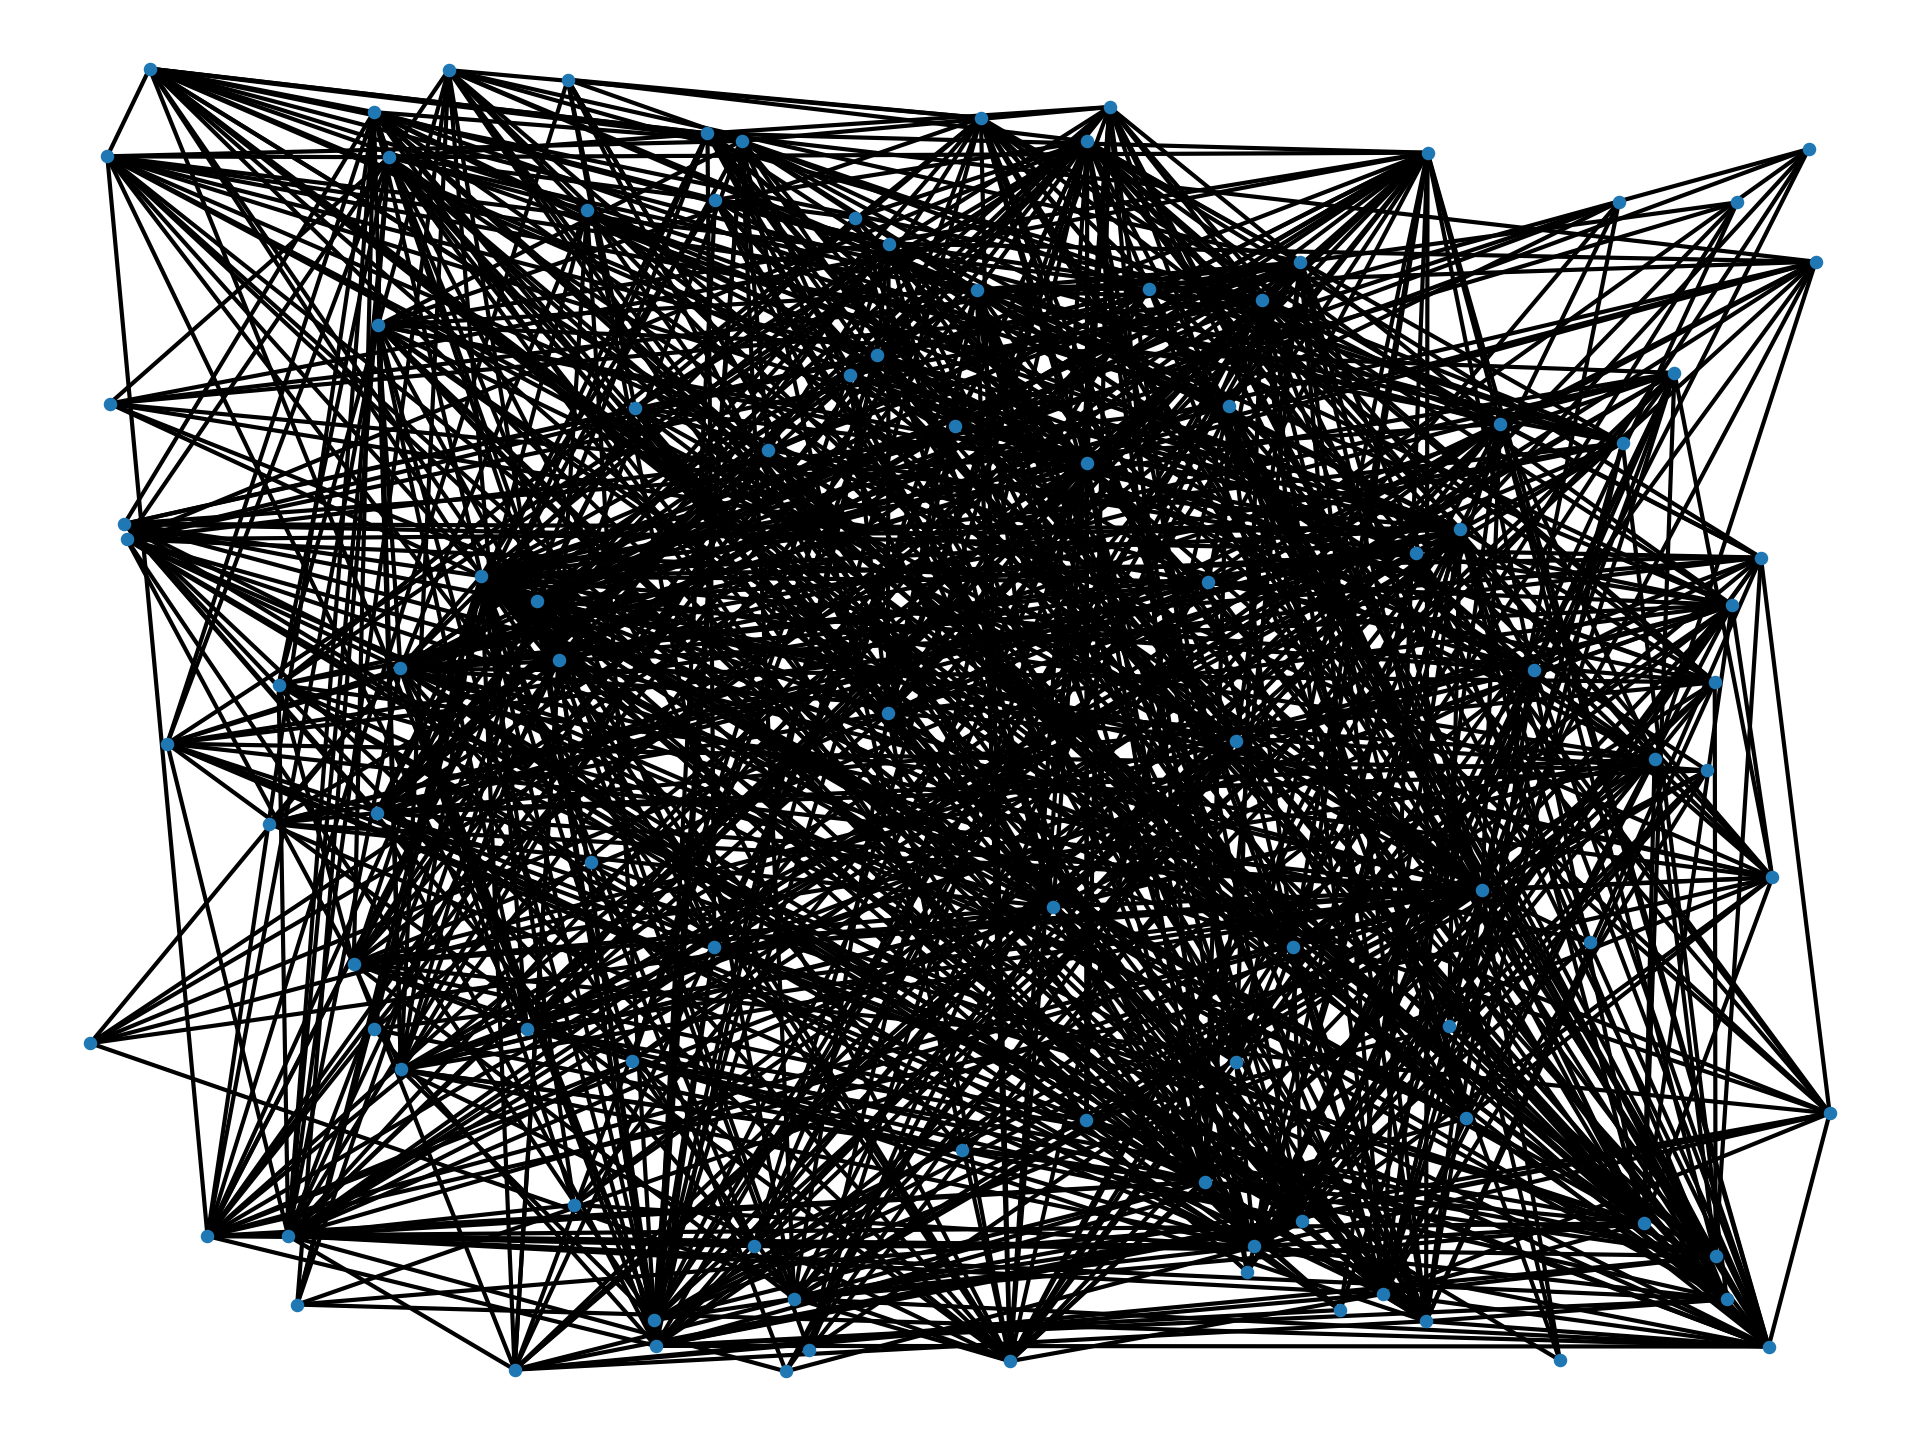
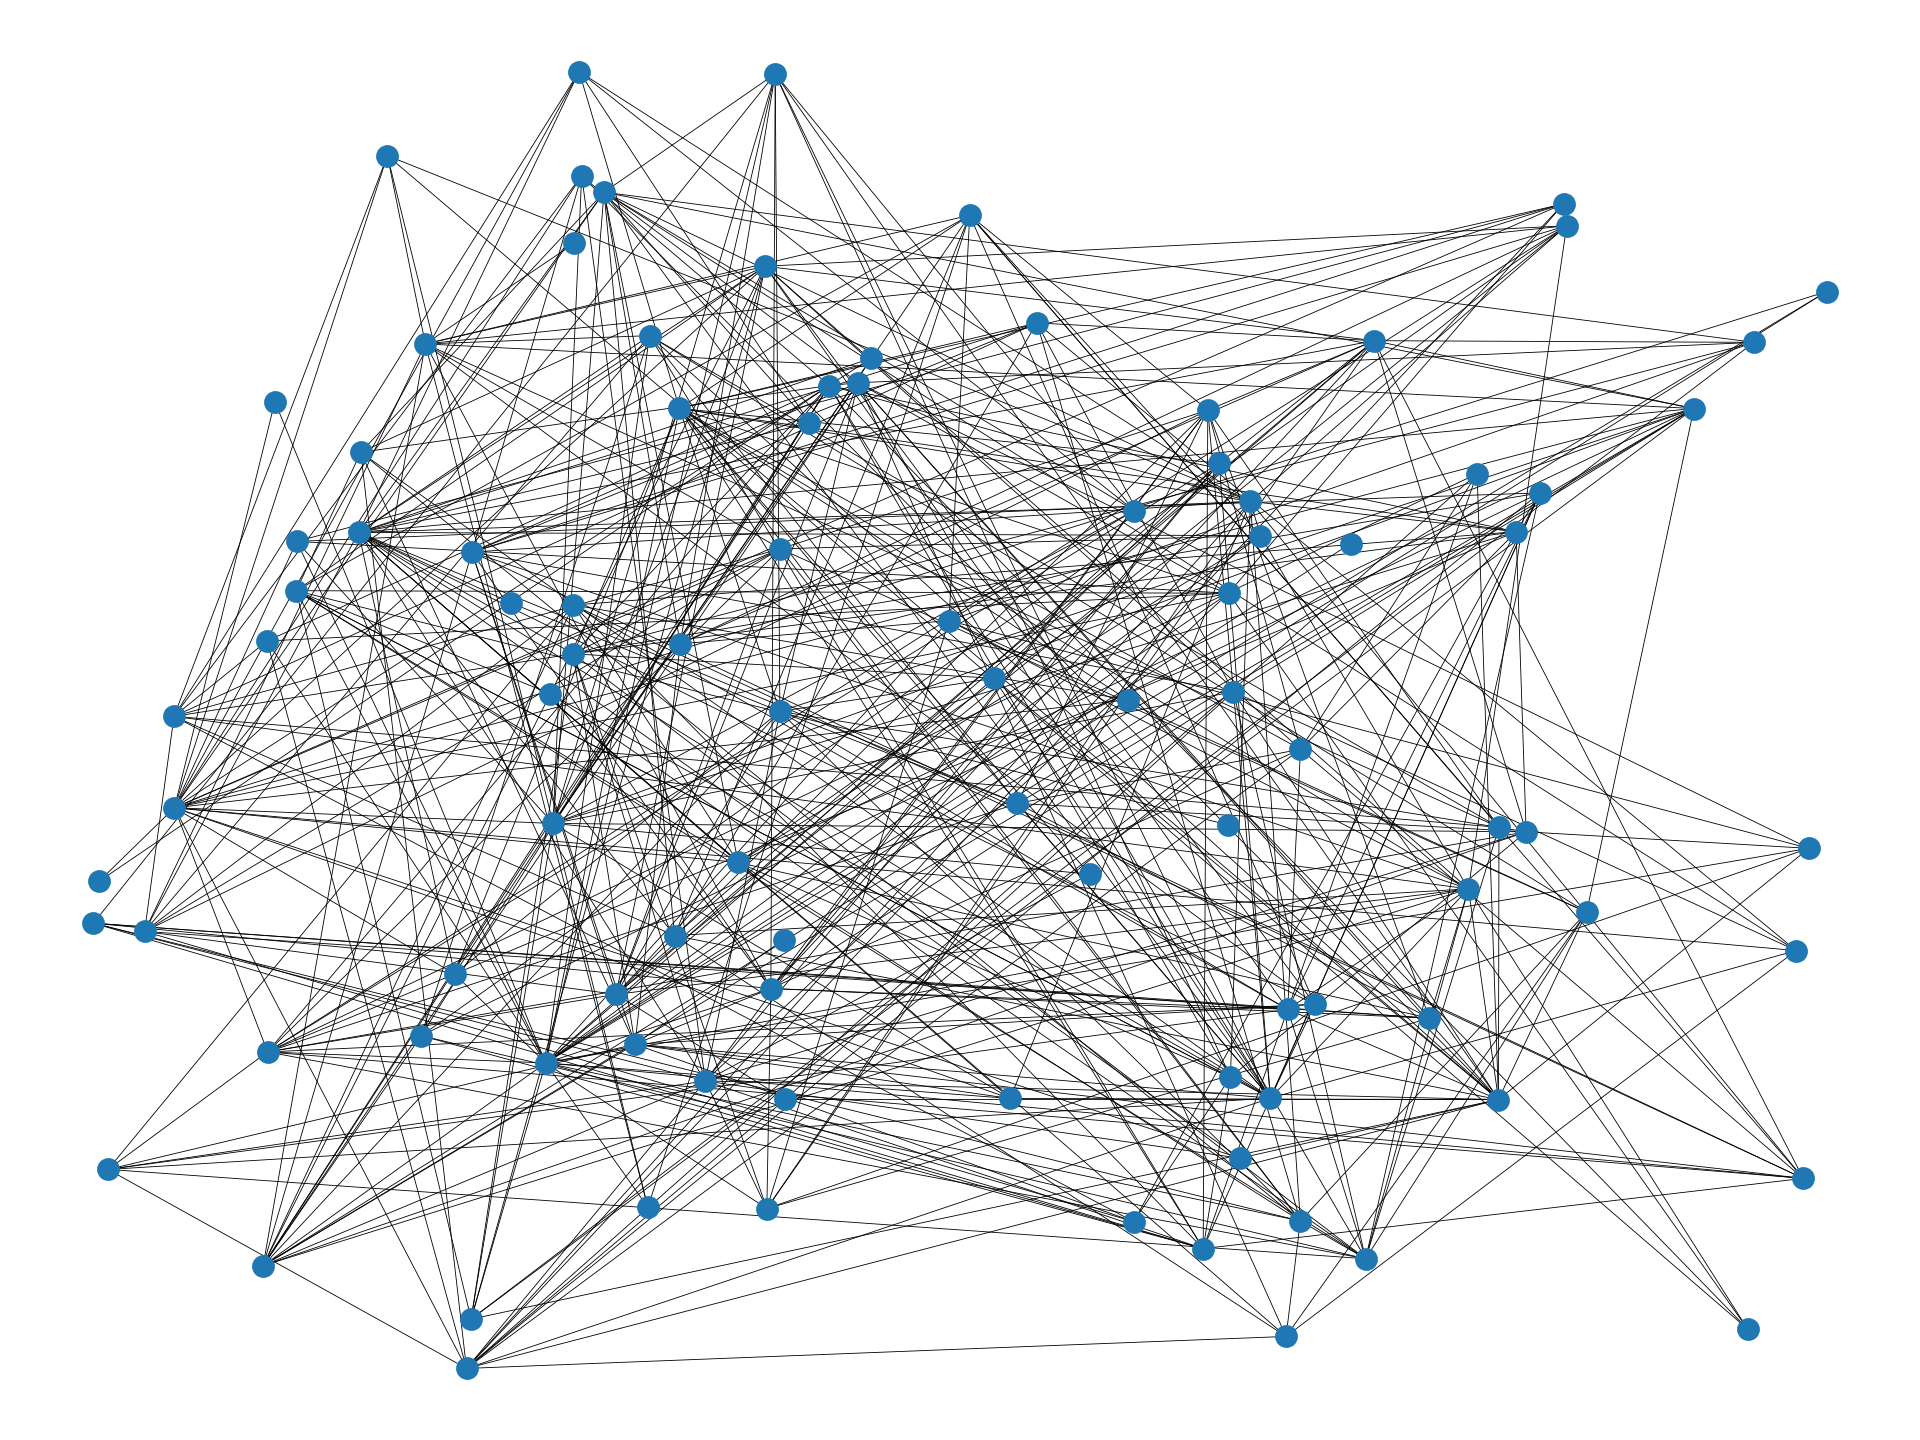
eval

diff --git a/create_batch.py b/create_batch.py
@@ -646,7 +646,7 @@ class Corpus:
         log = open(args.output_folder + 'relation_eval.txt', 'w+')
         y_true = self.test_indices[:, 1]
         y_predict = []
-        if not os.path.exists(args.output_folder):
+        if not os.path.exists(args.output_folder + 'output_scores/'):
             os.makedirs(args.output_folder + 'output_scores/')
 
         for iters in range(1):
@@ -702,19 +702,18 @@ class Corpus:
                 batch_values[:, -2] = scores.cpu().detach().numpy().reshape(1, -1)
                 batch_values[:, -1] = [1] + [0] * (new_x_batch.shape[0] - 1) # give label
                 dataset.append(batch_values)
-                softmax_scores = (scores).transpose(0, 1).cpu().detach().numpy()
+                # softmax_scores = (scores).transpose(0, 1).cpu().detach().numpy()
                 # TODO: calculate prob based on score and assign score to those valid triples in last_index
                 # softmax_scores = normalize(softmax_scores)
-                softmax_scores = softmax(softmax_scores)
-                if len(new_x_batch) < 30:
-                    for ele in last_index:
-                        if ele != batch_indices[i][1]:
-                            softmax_scores = np.insert(
-                                softmax_scores, ele, np.mean(softmax_scores[0][1:]), axis=1)
-                y_predict.append(softmax_scores)
+                #softmax_scores = softmax(softmax_scores)
+                #if len(new_x_batch) < 30:
+                #    for ele in last_index:
+                #        if ele != batch_indices[i][1]:
+                #            softmax_scores = np.insert(
+                #                softmax_scores, ele, np.mean(softmax_scores[0][1:]), axis=1)
+                #y_predict.append(softmax_scores)
 
-                sorted_scores, sorted_indices = torch.sort(
-                    scores.view(-1), dim=-1, descending=True)
+                sorted_scores, sorted_indices = torch.sort(scores.view(-1), dim=-1, descending=True)
                 # Just search for zeroth index in the sorted scores, we appended valid triple at top
                 ranks.append(
                     np.where(sorted_indices.cpu().detach().numpy() == 0)[0][0] + 1)
@@ -780,8 +779,8 @@ class Corpus:
             sum(average_mean_ranks) / len(average_mean_ranks)), file=log)
         print("Mean Reciprocal Rank {}".format(
             sum(average_mean_recip_ranks) / len(average_mean_recip_ranks)), file=log)
-
-        y_predict = np.vstack(y_predict)
+        '''
+        #y_predict = np.vstack(y_predict)
         y_true = label_binarize(y_true, classes=unique_relations)
         drop_idx = np.where(np.sum(y_true, axis=0) == 0)
         y_true = np.delete(y_true, drop_idx, axis=1)
@@ -792,3 +791,4 @@ class Corpus:
         print('#' * 9 + ' Link Prediction Performance ' + '#' * 9, file=log)
         print(f'AUC-ROC: {auc_roc:.3f}, AUC-PR: {auc_pr:.3f}', file=log)
         print('#' * 50, file=log)
+        '''

diff --git a/inferences/create_drugbank_dataset.py b/inferences/create_drugbank_dataset.py
@@ -2,29 +2,34 @@ from lxml import etree
 import time
 # read data
 
-read_start = time.time()
-PREFIX = '{http://www.drugbank.ca}'
-file_name = './data/drug_bank_full_database.xml'
-with open(file_name, 'r') as f:
-    tree = etree.parse(f)
-print(f'Parse takes {time.time() - read_start}')
+def main():
+    read_start = time.time()
+    PREFIX = '{http://www.drugbank.ca}'
+    file_name = './data/drug_bank_full_database.xml'
+    with open(file_name, 'r') as f:
+        tree = etree.parse(f)
+    print(f'Parse takes {time.time() - read_start}')
 
 
-root = tree.getroot()
+    root = tree.getroot()
 
-for drug in root:
-    drugbank_ids = drug.find(PREFIX + 'drugbank-id')
-    primary_id = drugbank_ids.text
-    primary_name = drug.find(PREFIX + 'name').text
+    for drug in root:
+        drugbank_ids = drug.find(PREFIX + 'drugbank-id')
+        primary_id = drugbank_ids.text
+        primary_name = drug.find(PREFIX + 'name').text
 
-    drug_interactions = drug.find(PREFIX + 'drug-interactions')
-    classification_tag = drug.find(PREFIX + 'classification')
-    if classification_tag is None:
-        continue
-    direct_parent = classification_tag.find(PREFIX + 'direct-parent')
-    kingdom = classification_tag.find(PREFIX + 'kingdom')
-    super_class = classification_tag.find(PREFIX + 'superclass')
-    chem_class = classification_tag.find(PREFIX + 'class')
-    sub_class = classification_tag.find(PREFIX + 'subclass')
-    with open('drugbank_emb_labels.txt', 'a+') as f:
-        f.write(f'{primary_id}\t{direct_parent.text}\t{kingdom.text}\t{super_class.text}\t{chem_class.text}\t{sub_class.text}\n')
+        drug_interactions = drug.find(PREFIX + 'drug-interactions')
+        classification_tag = drug.find(PREFIX + 'classification')
+        if classification_tag is None:
+            continue
+        direct_parent = classification_tag.find(PREFIX + 'direct-parent')
+        kingdom = classification_tag.find(PREFIX + 'kingdom')
+        super_class = classification_tag.find(PREFIX + 'superclass')
+        chem_class = classification_tag.find(PREFIX + 'class')
+        sub_class = classification_tag.find(PREFIX + 'subclass')
+        with open('drugbank_emb_labels.txt', 'a+') as f:
+            f.write(f'{primary_id}\t{direct_parent.text}\t{kingdom.text}\t{super_class.text}\t{chem_class.text}\t{sub_class.text}\n')
+
+
+if __name__ == '__main__':
+    main()

diff --git a/inferences/filter_down.py b/inferences/filter_down.py
@@ -1,34 +1,41 @@
 
 import time
-NUM_ENTITIES = 2191
-drugset = set()
-tuple_sets = set()
-with open('./drugbank_data.txt', 'r') as f, open('./drugbank_data_subset{}.txt'.format(NUM_ENTITIES), 'a+') as out:
-    total_lines = 0
-    write_lines = 0
-    for line in f:
-        drug1, relation, drug2 = line.replace('"', '').rstrip().split('\t')
 
-        if drug1 not in drugset and len(drugset) < NUM_ENTITIES:
-            drugset.add(drug1)
+def main():
+    NUM_ENTITIES = 2191
+    drugset = set()
+    tuple_sets = set()
+    with open('./drugbank_data.txt', 'r') as f, open('./drugbank_data_subset{}.txt'.format(NUM_ENTITIES), 'a+') as out:
+        total_lines = 0
+        write_lines = 0
+        for line in f:
+            drug1, relation, drug2 = line.replace('"', '').rstrip().split('\t')
 
-        if drug2 not in drugset and len(drugset) < NUM_ENTITIES:
-            drugset.add(drug2)
+            if drug1 not in drugset and len(drugset) < NUM_ENTITIES:
+                drugset.add(drug1)
 
-        if drug1 in drugset and drug2 in drugset and ' '.join([drug1, relation, drug2]) not in tuple_sets:
-            line = line.replace('"', '') # remove a bug in original dataset
-            write_lines += 1
-            out.write(line)
-        else:
+            if drug2 not in drugset and len(drugset) < NUM_ENTITIES:
+                drugset.add(drug2)
+
+            if drug1 in drugset and drug2 in drugset and ' '.join([drug1, relation, drug2]) not in tuple_sets:
+                line = line.replace('"', '') # remove a bug in original dataset
+                write_lines += 1
+                out.write(line)
+            else:
+                total_lines += 1
+                #print('Repeat lines')
+                continue
+
+            tuple_sets.add(' '.join([drug1, relation, drug2]))
+            tuple_sets.add(' '.join([drug2, relation, drug1]))
             total_lines += 1
-            #print('Repeat lines')
-            continue
+            #print(tuple_sets)
+            #time.sleep(3)
+    print('Total:', total_lines, 'Write', write_lines)
 
-        tuple_sets.add(' '.join([drug1, relation, drug2]))
-        tuple_sets.add(' '.join([drug2, relation, drug1]))
-        total_lines += 1
-        #print(tuple_sets)
-        #time.sleep(3)
-print('Total:', total_lines, 'Write', write_lines)
+
+
+if __name__ == '__main__':
+    main()
 
 

diff --git a/inferences/get_pretrained_vec.py b/inferences/get_pretrained_vec.py
@@ -1,23 +1,43 @@
 import pandas as pd
 import numpy as np
 import os
-df = pd.read_csv('./data/tanimoto_info_PCA50.csv')
-data_path = '/scratch/bz1030/relationPrediction/data/deepddi'
-print(df.head())
-print(df.shape)
-entity_ids = pd.read_csv(data_path + '/entity2id.txt', sep='\t', header=None)
-entity_ids.columns = ['drug_id','id']
-col_names = df.columns.tolist()
-col_names[0] = 'drug_id'
+import torch
+import sys
+sys.path.append('../')
+from models import SpKBGATModified, SpKBGATConvOnly
 
-df.columns = col_names
+def main():
+    df = pd.read_csv('./data/tanimoto_info_PCA50.csv')
+    data_path = '/scratch/bz1030/relationPrediction/data/deepddi'
+    print(df.head())
+    print(df.shape)
+    entity_ids = pd.read_csv(data_path + '/entity2id.txt', sep='\t', header=None)
+    entity_ids.columns = ['drug_id', 'id']
+    col_names = df.columns.tolist()
+    col_names[0] = 'drug_id'
 
-df = pd.merge(df, entity_ids, left_on='drug_id', right_on='drug_id', how='inner')
-print(df.head())
-selected_cols = ['id'] + ['PC_{}'.format(i) for i in range(1,51)]
-df = df[selected_cols]
-print(df.head())
-df.sort_values('id', inplace=True, ascending=True)
-print(df.head())
-df.set_index('id', inplace=True)
-df.to_csv('entity2vec.txt', sep='\t', index=False, header=None)
+    df.columns = col_names
+
+    df = pd.merge(df, entity_ids, left_on='drug_id', right_on='drug_id', how='inner')
+    print(df.head())
+    selected_cols = ['drug_id'] + ['PC_{}'.format(i) for i in range(1,51)]
+    df = df[selected_cols]
+    df.set_index('drug_id', inplace=True)
+    df.to_csv('entity2vec.txt', sep='\t', header=None)
+    # load embedding from torch
+    CUDA = torch.cuda.is_available()
+    load_model = '/scratch/bz1030/relationPrediction/checkpoints/deepddi_tanh/gat/trained_299.pth'
+    if CUDA:
+        gat = torch.load(load_model)
+    else:
+        gat = torch.load(load_model, map_location='cpu')
+    learned_ent_emb = gat['module.entity_embeddings'].data.numpy()
+    print(learned_ent_emb.shape)
+
+    learned_ent_emb  = pd.DataFrame(learned_ent_emb)
+    learned_ent_emb['drug_id'] = entity_ids['drug_id']
+    learned_ent_emb.to_csv('entity2vec_gat.csv', header=None, sep='\t', index=False)
+
+
+if __name__ == '__main__':
+    main()

diff --git a/evaluate.py b/evaluate.py
@@ -67,7 +67,7 @@ def parse_args():
     args.add_argument("-out_dim", "--entity_out_dim", type=int, nargs='+',
                       default=[100, 200], help="Entity output embedding dimensions")
     args.add_argument("-h_gat", "--nheads_GAT", type=int, nargs='+',
-                      default=[2, 2], help="Multihead attention SpGAT")
+                      default=[1, 2], help="Multihead attention SpGAT")
     args.add_argument("-margin", "--margin", type=float,
                       default=5, help="Margin used in hinge loss")
 
@@ -82,6 +82,7 @@ def parse_args():
                       help="Number of output channels in conv layer")
     args.add_argument("-drop_conv", "--drop_conv", type=float,
                       default=0.0, help="Dropout probability for convolution layer")
+    args.add_argument("-tanh", "--tanh", type=str2bool, default='yes', dest='tanh')
 
     args = args.parse_args()
     return args
@@ -142,5 +143,5 @@ def evaluate_conv(args, unique_entities,load_model):
 if __name__ == '__main__':
     Corpus_, entity_embeddings, relation_embeddings = load_data(args)
     print('Load model ...')
-    load_model = '/scratch/bz1030/relationPrediction/checkpoints/drugbank100_new/conv/trained_99.pth'
+    load_model = '/scratch/bz1030/relationPrediction/checkpoints/deepddi_pretrained/conv/trained_299.pth'
     evaluate_conv(args, Corpus_.unique_entities_train, load_model)

diff --git a/inferences/draw_graph.py b/inferences/draw_graph.py
@@ -2,15 +2,20 @@ import networkx as nx
 import pandas as pd
 import matplotlib.pyplot as plt
 import plotly.graph_objects as go
-
+import numpy as np
 G = nx.Graph()
-
 deepddi = pd.read_csv('/scratch/bz1030/relationPrediction/data/drugbank_100/valid.txt', header=None, sep='\t')
-
+relation2id = pd.read_csv('/scratch/bz1030/relationPrediction/data/drugbank_100/relation2id.txt', sep='\t',header=None)
+drop_rate = 0.5
 for idx, row in deepddi.iterrows():
+    #if np.random.uniform(0, 1) < drop_rate:
+    #    continue
+    color = relation2id.loc[relation2id.iloc[:, 0] == row.iloc[1], 1]
     node1, node2 = (row.iloc[0], row.iloc[2])
-    G.add_edge(node1, node2)
+    G.add_edge(node1, node2, color=color)
 
-nx.draw_random(G, node_size=5, width=1)
+edges = G.edges()
+colors = [G[u][v]['color'] for u,v in edges]
+nx.draw_random(G, node_size=20, width=0.2, edge_color=colors)
 plt.savefig("simple_path.png", dpi=300) # save as png
 #plt.show() # display

diff --git a/layers.py b/layers.py
@@ -17,7 +17,7 @@ class ConvKB(nn.Module):
             in_channels, out_channels, (1, input_seq_len))  # kernel size -> 1*input_seq_length(i.e. 2)
         self.dropout = nn.Dropout(drop_prob)
         self.non_linearity = nn.ReLU()
-        self.norm = nn.BatchNorm2d(out_channels)
+        #self.norm = nn.BatchNorm2d(out_channels)
         self.fc_layer = nn.Linear((input_dim) * out_channels, 1)
 
         nn.init.xavier_uniform_(self.fc_layer.weight, gain=1.414)
@@ -32,7 +32,7 @@ class ConvKB(nn.Module):
         # To make tensor of size 4, where second dim is for input channels
         conv_input = conv_input.unsqueeze(1)
         out_conv = self.non_linearity(self.conv_layer(conv_input))
-        out_conv = self.norm(out_conv)
+        #out_conv = self.norm(out_conv)
         out_conv = self.dropout(out_conv)
         input_fc = out_conv.squeeze(-1).view(batch_size, -1)
         output = self.fc_layer(input_fc)

diff --git a/inferences/generate_analysis_data.py b/inferences/generate_analysis_data.py
@@ -1,0 +1,23 @@
+import pandas as pd
+import os
+import numpy as np
+'''
+Generate analysis data for this paper
+'''
+
+def main():
+    chem_meta_data = pd.read_csv('/scratch/bz1030/relationPrediction/inferences/data/drugbank_emb_labels.txt', sep='\t',
+                                 header=None)
+
+    emb = pd.read_csv('/scratch/bz1030/relationPrediction/checkpoints/deepddi_tanh/entity_emb.txt', sep=' ',
+                      header=None)
+    print(chem_meta_data.head())
+    print(emb.head())
+    data = pd.merge(emb, chem_meta_data, left_on=0, right_on=0, how='inner')
+    print(data.head())
+    data.set_index(0, inplace=True)
+    data.to_csv('./data/analysis_data_chem_class.csv', header=None)
+
+
+if __name__ == '__main__':
+    main()

diff --git a/main.py b/main.py
@@ -226,10 +226,10 @@ def train_gat(args):
     if CUDA:
         model_gat.cuda()
 
-    if (args.load_gat is None):
+    if args.load_gat is not None and args.epochs_gat == 0:
         model_gat.load_state_dict(torch.load(
             '{0}gat/trained_{1}.pth'.format(args.output_folder, args.epochs_gat - 1)))
-    elif (args.load_gat is not None and args.epochs_gat > 0):
+    elif args.load_gat is not None and args.epochs_gat > 0:
         model_gat.load_state_dict(torch.load(args.load_gat))
 
     optimizer = torch.optim.Adam(
